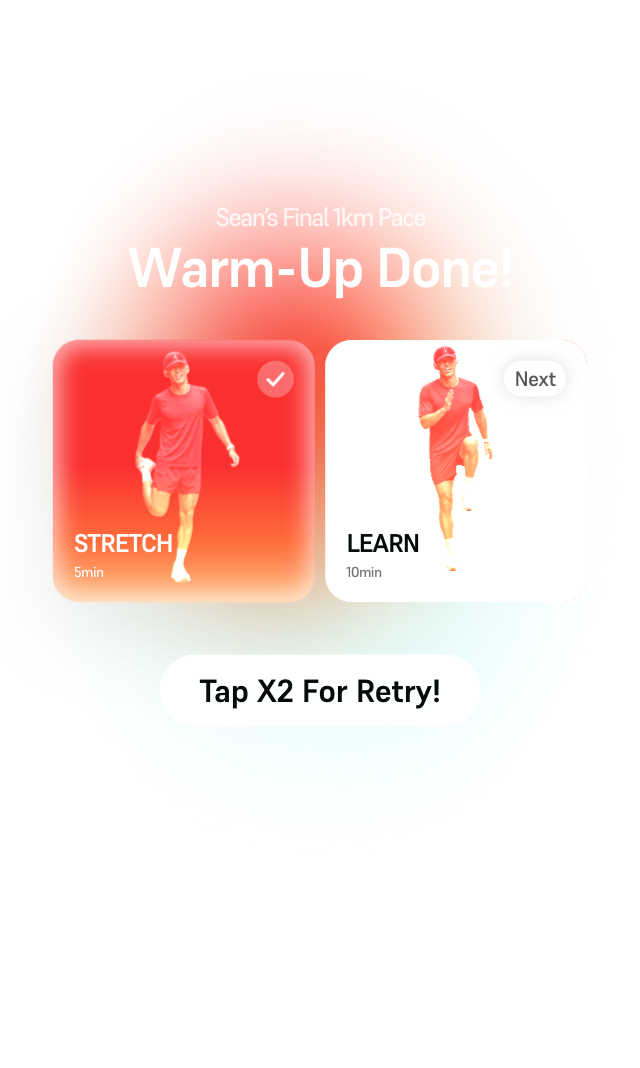
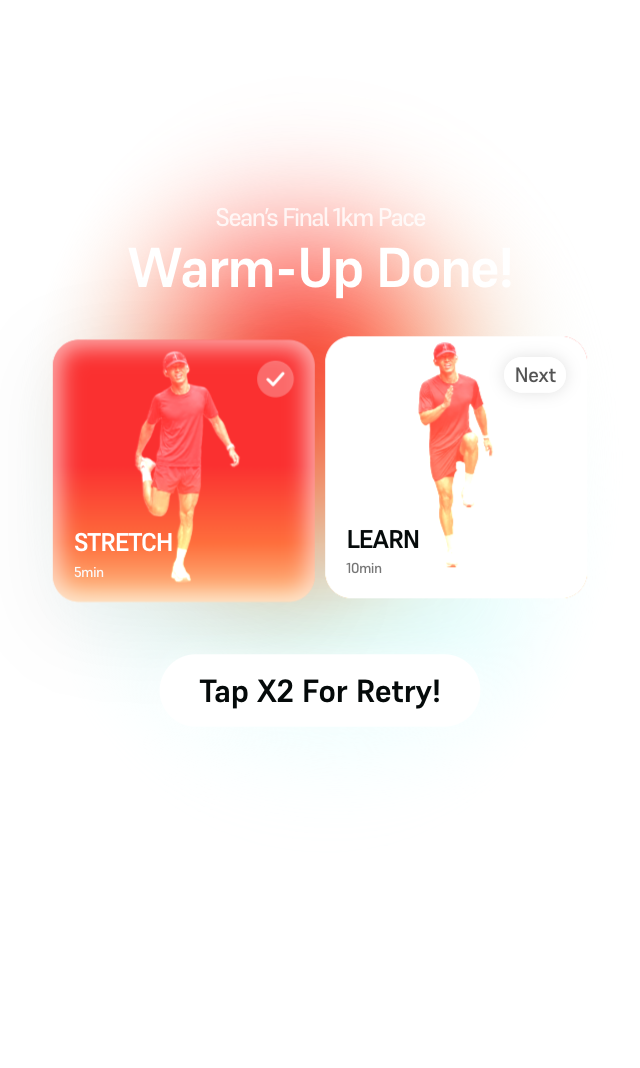
예시영상 화면에서 진행바 제거 + 셰이더 선컴파일(첫 화면 버벅임)
진행바(도트) — 원본 HTML(floor-scene.html 228·248행)이 이미 규칙을 갖고 있었는데
이식 때 그 분기를 빠뜨렸다. 두 가지를 그대로 되살린다:
  ① 시범(Preview) 동안은 감춘다. 자리도 비운다 — 프리뷰 행이 그 슬롯을 쓴다.
  ② 스텝백 따라하기(BK_B2~B5)엔 아예 없다. 진행은 상단 n/4 담당(유저 확정, 주석에 기록돼 있었다).

첫 화면 버벅임 — renderer.compileAsync(scene, camera) 를 부팅 끝에 추가.
마크·인물·발자국 셰이더가 '처음 그려지는 프레임'에 컴파일되면서 세션 진입 순간
수십 개가 한꺼번에 컴파일된다. GPU 드라이버의 동기 작업이라 rAF가 그 자리에서 막힌다 —
에셋 프리로드로는 안 사라지는 종류다. compile()은 traverse 라 아직 숨긴 재질까지 굽는다.

렌더 확인: 벽 BX_T1 Figma 레이아웃 일치 · A2 프리뷰 중 도트 없음 → 3초 뒤 그 자리에 등장.

diff --git a/src/floorgl.js b/src/floorgl.js
@@ -241,7 +241,10 @@ function buildScene(stage, p) {
   col.push(node('s-cue', { type: 'text', textContent: S.cue || '', size: 52, weight: 400, color: 'rgba(255,255,255,.72)', style: { display: 'none' } }));
   if (isC) col.push(node('km', { type: 'km' }));
   if (hasPrev) col.push(node('prev-row', { type: 'prevRow', pv: p.pv || 3, pvn: p.pvn || 0 }));
-  col.push(node('s-dots', { type: 'dots', dur: p.dur || 8, delay: hasPrev ? (p.pv || 3) + 0.15 : 0 }));
+  // 도트 진행바 — 원본 HTML의 노출 규칙 두 가지를 그대로 따른다.
+  //  ① 시범(Preview) 동안은 감춘다. 공간도 차지하지 않는다 — 프리뷰가 그 자리를 쓰기 때문.
+  //  ② 스텝백 따라하기(BK_B2~B5)엔 아예 없다. 진행은 상단 n/4 가 담당(유저 확정).
+  if (!isStep) col.push(node('s-dots', { type: 'dots', dur: p.dur || 8, hideUntil: hasPrev ? (p.pv || 3) : 0, delay: hasPrev ? (p.pv || 3) + 0.15 : 0 }));
   if (isP) col.push(node('train-row', { type: 'trainRow', ring: /^P[23]$/.test(stage) }));
   if (isC) col.push(node('live-row', { type: 'liveRow' }));
   col.push(node('s-succ', { type: 'succ', style: { display: 'none' } }));
@@ -358,6 +361,7 @@ export class FloorGL {
     let y = 176;   // Figma 대지 실좌표
     for (const n of this.col) {
       if (n.style.display === 'none') continue;
+      if (n.hideUntil && this.t < n.hideUntil) continue;   // 시범 중 도트바 — 자리도 비운다
       const h = this._h(n);
       if (n.mt) y += n.mt;
       if (n.style.visibility !== 'hidden') {

diff --git a/src/main.js b/src/main.js
@@ -5603,6 +5603,12 @@ void main(){
     renderFloorOcclusion(floorObj.visible);
   }
 
+  // 셰이더 선컴파일 — 첫 화면이 유독 버벅이던 진짜 이유.
+  //   마크·인물·발자국·풋마크 셰이더는 '처음 그려지는 프레임'에 컴파일된다. 세션에 들어가는
+  //   순간 수십 개가 한꺼번에 컴파일되면서 프레임이 통째로 멈춘다(GPU 드라이버 동기 작업이라
+  //   rAF가 그 자리에서 막힌다). 에셋만 미리 구워봐야 이건 안 없어진다.
+  //   compile()은 traverse(=숨긴 것 포함)라 아직 안 보이는 UI·토큰 재질까지 함께 굽는다.
+  try { await renderer.compileAsync(scene, camera); } catch (e) { console.warn('[Newton] precompile:', e); }
   loop();
 }
 
